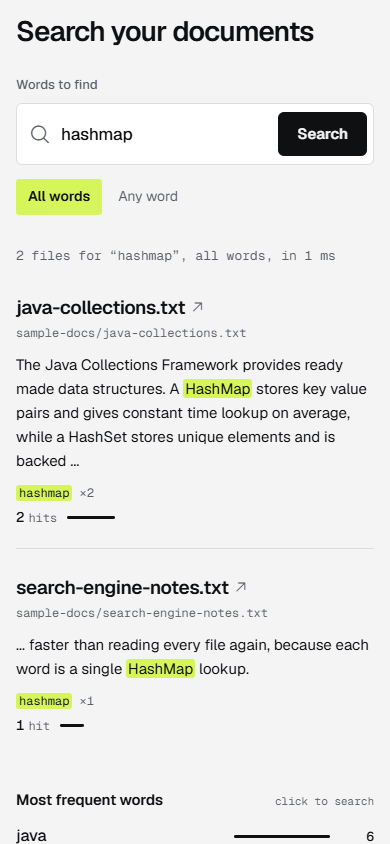
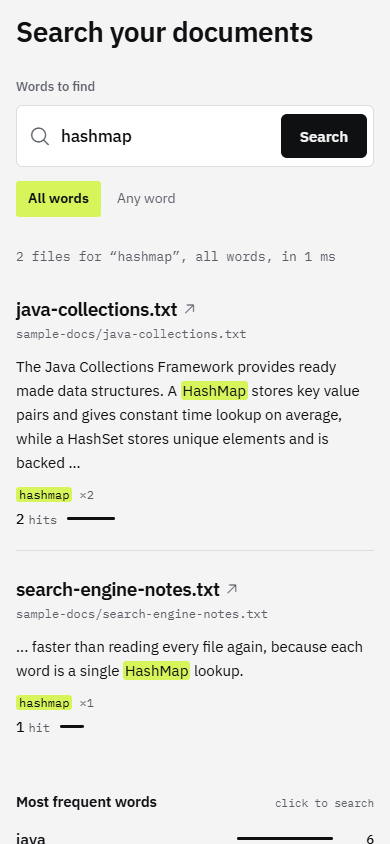
feat(frontend): light theme only, IBM Plex fonts and plainer landing text
Changes from reviewing the site before it goes on Vercel:

- The dark theme is gone, so the site looks the same on every device.
- IBM Plex Sans and IBM Plex Mono replace Geist, and the large headings
  get looser letter spacing.
- The landing page wording is plainer and more specific: a factual
  headline, a concrete description of what the engine does, the
  feature strip without generic icons, and course topic cards that say
  what the code actually does.
- The README screenshots are retaken in the light theme, and the
  READMEs name the new fonts.

diff --git a/frontend/index.html b/frontend/index.html
@@ -3,7 +3,7 @@
 <head>
   <meta charset="utf-8">
   <meta name="viewport" content="width=device-width, initial-scale=1">
-  <meta name="color-scheme" content="light dark">
+  <meta name="color-scheme" content="light">
   <title>DocIndex: search a folder of text files</title>
   <meta name="description" content="A local document indexing and search engine. Index a folder of text files once, then rank every match by keyword frequency. CSC2104 Object Oriented Programming mini project.">
   <link rel="icon" href="favicon.svg" type="image/svg+xml">
@@ -11,7 +11,7 @@
 
   <link rel="preconnect" href="https://fonts.googleapis.com">
   <link rel="preconnect" href="https://fonts.gstatic.com" crossorigin>
-  <link href="https://fonts.googleapis.com/css2?family=Geist:wght@400;500;600;700&family=Geist+Mono:wght@400;500&display=swap" rel="stylesheet">
+  <link href="https://fonts.googleapis.com/css2?family=IBM+Plex+Mono:wght@400;500&family=IBM+Plex+Sans:wght@400;500;600;700&display=swap" rel="stylesheet">
   <link rel="stylesheet" href="https://unpkg.com/@phosphor-icons/web@2.1.1/src/regular/style.css">
   <link rel="stylesheet" href="css/base.css">
   <link rel="stylesheet" href="css/landing.css">
@@ -33,14 +33,14 @@
   <main>
     <section class="hero">
       <div class="wrap">
-        <h1 class="hero__title rise">Find the right file by the <span class="hl">words</span> inside it.</h1>
+        <h1 class="hero__title rise">A search engine for a folder of <span class="hl">text files</span>.</h1>
 
         <div class="hero__grid">
           <div class="hero__copy">
-            <p class="hero__sub rise" style="--i: 1">Point it at a folder of text files. It builds an index once, then ranks every match by keyword frequency.</p>
+            <p class="hero__sub rise" style="--i: 1">It reads each .txt file once, builds an index of every word, and ranks the files that contain your words by how many times those words appear.</p>
             <div class="hero__cta rise" style="--i: 2">
-              <a class="btn btn--solid" href="app.html">Open app <i class="ph ph-arrow-right" aria-hidden="true"></i></a>
-              <a class="btn btn--line" href="#how">See how it works</a>
+              <a class="btn btn--solid" href="app.html">Open the app <i class="ph ph-arrow-right" aria-hidden="true"></i></a>
+              <a class="btn btn--line" href="#how">How it works</a>
             </div>
           </div>
 
@@ -64,24 +64,20 @@
       <div class="wrap">
         <ul class="features__list">
           <li class="feature reveal">
-            <i class="ph ph-folder-open" aria-hidden="true"></i>
             <h2>File indexing</h2>
-            <p>Reads every .txt file in a folder and its sub folders, once.</p>
+            <p>Reads every .txt file in a folder, sub folders included.</p>
           </li>
           <li class="feature reveal" style="--i: 1">
-            <i class="ph ph-hash" aria-hidden="true"></i>
             <h2>Keyword frequency</h2>
-            <p>Counts each word in each file, and lists the most frequent ones.</p>
+            <p>Counts each word in each file and lists the most frequent words.</p>
           </li>
           <li class="feature reveal" style="--i: 2">
-            <i class="ph ph-ranking" aria-hidden="true"></i>
             <h2>Ranked results</h2>
-            <p>Sorts matching files by how often your words appear in them.</p>
+            <p>Sorts the matching files by how often your words appear in them.</p>
           </li>
           <li class="feature reveal" style="--i: 3">
-            <i class="ph ph-clock-counter-clockwise" aria-hidden="true"></i>
             <h2>Search history</h2>
-            <p>Keeps your last ten searches, one click from running again.</p>
+            <p>Keeps your last ten searches so you can run one again.</p>
           </li>
         </ul>
       </div>
@@ -90,8 +86,8 @@
     <section class="section" id="how">
       <div class="wrap">
         <div class="section__head reveal">
-          <h2 class="h2">From a folder to a ranked list</h2>
-          <p class="lede">Four steps, each one built on a plain Java collection. The samples follow one sentence through all of them.</p>
+          <h2 class="h2">How it works</h2>
+          <p class="lede">Indexing happens once. After that, each search is a few lookups in the index. The examples use one of the sample files.</p>
         </div>
 
         <ol class="flow">
@@ -106,7 +102,7 @@
 
           <li class="flow__row reveal">
             <h3 class="flow__verb">Split</h3>
-            <p class="flow__text">Lowercases the text, breaks it into words and drops filler like "the" and "is".</p>
+            <p class="flow__text">Lowercases the text, breaks it into words and drops common words such as "the" and "is".</p>
             <div class="sample">
               <p class="tokens">
                 <span class="tok stop" style="--i: 0">a</span>
@@ -157,8 +153,8 @@
     <section class="section section--tight">
       <div class="wrap">
         <div class="section__head reveal">
-          <h2 class="h2">The Java behind it</h2>
-          <p class="lede">Each concept from the brief has one job in the engine.</p>
+          <h2 class="h2">Where the course topics are used</h2>
+          <p class="lede">The Java classes and collections from the syllabus, and what each one does in this project.</p>
         </div>
 
         <div class="bento">
@@ -170,12 +166,12 @@
 
           <article class="cell cell--b reveal" style="--i: 1">
             <h3>HashSet</h3>
-            <p>Holds the stop words, and gives match-all and match-any through intersection and union.</p>
+            <p>Holds the stop words. All words is a set intersection and any word is a union, done by two subclasses of the abstract Matcher class.</p>
           </article>
 
           <article class="cell cell--c reveal">
             <h3>PriorityQueue</h3>
-            <p>Keeps the best-scoring file on top. Each result implements Comparable, so it knows its own order.</p>
+            <p>Returns the results best first. SearchResult implements Comparable: higher score first, then file name.</p>
           </article>
 
           <article class="cell cell--d reveal" style="--i: 1">
@@ -186,9 +182,9 @@
           <article class="cell cell--e reveal">
             <div>
               <h3>LinkedList</h3>
-              <p>Keeps the last ten searches, newest first. Inheritance shows up too: two Matcher subclasses decide between all and any.</p>
+              <p>Keeps the last ten searches, newest first. When it is full, the oldest search is removed from the end.</p>
             </div>
-            <a class="btn btn--line" href="app.html">Open app <i class="ph ph-arrow-right" aria-hidden="true"></i></a>
+            <a class="btn btn--line" href="app.html">Open the app <i class="ph ph-arrow-right" aria-hidden="true"></i></a>
           </article>
         </div>
       </div>

diff --git a/frontend/css/base.css b/frontend/css/base.css
@@ -5,13 +5,14 @@
    - One accent: highlighter lime (--hl). It only ever fills a background
      behind dark text, the same way a highlighter pen works.
    - One radius scale: 6px for controls and panels, 3px for small inline bits.
+   - Light theme only.
    - Motion only animates transform and opacity, and is switched off under
      prefers-reduced-motion.
    ========================================================================== */
 
 /* Tokens ------------------------------------------------------------------ */
 :root {
-  color-scheme: light dark;
+  color-scheme: light;
 
   --bg: #f4f4f5;
   --surface: #ffffff;
@@ -28,26 +29,10 @@
 
   --r: 6px;
   --r-sm: 3px;
-  --font: "Geist", ui-sans-serif, system-ui, -apple-system, "Segoe UI", Roboto, "Helvetica Neue", Arial, sans-serif;
-  --mono: "Geist Mono", ui-monospace, "Cascadia Code", "SFMono-Regular", Consolas, monospace;
+  --font: "IBM Plex Sans", ui-sans-serif, system-ui, -apple-system, "Segoe UI", Roboto, Arial, sans-serif;
+  --mono: "IBM Plex Mono", ui-monospace, "Cascadia Code", "SFMono-Regular", Consolas, monospace;
   --ease: cubic-bezier(0.16, 1, 0.3, 1);
   --shadow: 0 1px 2px rgb(15 16 18 / 0.05), 0 18px 40px -18px rgb(15 16 18 / 0.22);
-}
-
-/* Dark theme follows the system setting. */
-@media (prefers-color-scheme: dark) {
-  :root {
-    --bg: #0d0e10;
-    --surface: #15161a;
-    --surface-2: #1c1d22;
-    --line: #26282e;
-    --text: #ededeb;
-    --muted: #9a9ea7;
-    --ink: #ededeb;
-    --on-ink: #0d0e10;
-    --danger: #ff8f85;
-    --shadow: 0 1px 2px rgb(0 0 0 / 0.45), 0 20px 44px -20px rgb(0 0 0 / 0.8);
-  }
 }
 
 /* Reset ------------------------------------------------------------------- */
@@ -114,8 +99,8 @@ kbd {
   display: inline-flex;
   align-items: center;
   gap: 10px;
-  font-weight: 650;
-  letter-spacing: -0.02em;
+  font-weight: 600;
+  letter-spacing: -0.01em;
   text-decoration: none;
 }
 

diff --git a/frontend/css/landing.css b/frontend/css/landing.css
@@ -9,8 +9,8 @@
   max-width: 17ch;
   font-size: clamp(2.5rem, 6.2vw, 4.75rem);
   font-weight: 600;
-  line-height: 1.03;
-  letter-spacing: -0.04em;
+  line-height: 1.08;
+  letter-spacing: -0.02em;
   text-wrap: balance;
 }
 
@@ -157,8 +157,7 @@
 
 .feature { padding: 28px 24px 30px 0; }
 .feature + .feature { padding-left: 24px; border-left: 1px solid var(--line); }
-.feature .ph { font-size: 1.375rem; }
-.feature h2 { margin-top: 14px; font-size: 1rem; font-weight: 600; letter-spacing: -0.015em; }
+.feature h2 { font-size: 1rem; font-weight: 600; }
 .feature p { margin-top: 6px; max-width: 30ch; font-size: 0.9375rem; color: var(--muted); }
 
 /* Sections ---------------------------------------------------------------- */
@@ -170,8 +169,8 @@
 .h2 {
   font-size: clamp(1.75rem, 3.4vw, 2.5rem);
   font-weight: 600;
-  line-height: 1.1;
-  letter-spacing: -0.03em;
+  line-height: 1.15;
+  letter-spacing: -0.015em;
 }
 
 .lede { margin-top: 14px; max-width: 46ch; color: var(--muted); }
@@ -190,8 +189,8 @@
 .flow__verb {
   font-size: clamp(1.75rem, 3vw, 2.25rem);
   font-weight: 600;
-  line-height: 1;
-  letter-spacing: -0.035em;
+  line-height: 1.1;
+  letter-spacing: -0.015em;
 }
 
 .flow__text { max-width: 36ch; color: var(--muted); }

diff --git a/frontend/app.html b/frontend/app.html
@@ -3,7 +3,7 @@
 <head>
   <meta charset="utf-8">
   <meta name="viewport" content="width=device-width, initial-scale=1">
-  <meta name="color-scheme" content="light dark">
+  <meta name="color-scheme" content="light">
   <title>Search: DocIndex</title>
   <meta name="description" content="Index a folder of text files and search across them, ranked by keyword frequency. Your files are read inside your browser and never uploaded.">
   <link rel="icon" href="favicon.svg" type="image/svg+xml">
@@ -11,7 +11,7 @@
 
   <link rel="preconnect" href="https://fonts.googleapis.com">
   <link rel="preconnect" href="https://fonts.gstatic.com" crossorigin>
-  <link href="https://fonts.googleapis.com/css2?family=Geist:wght@400;500;600;700&family=Geist+Mono:wght@400;500&display=swap" rel="stylesheet">
+  <link href="https://fonts.googleapis.com/css2?family=IBM+Plex+Mono:wght@400;500&family=IBM+Plex+Sans:wght@400;500;600;700&display=swap" rel="stylesheet">
   <link rel="stylesheet" href="https://unpkg.com/@phosphor-icons/web@2.1.1/src/regular/style.css">
   <link rel="stylesheet" href="css/base.css">
   <link rel="stylesheet" href="css/app.css">

diff --git a/frontend/css/app.css b/frontend/css/app.css
@@ -17,8 +17,8 @@
   margin-bottom: 28px;
   font-size: clamp(1.75rem, 3.4vw, 2.5rem);
   font-weight: 600;
-  line-height: 1.1;
-  letter-spacing: -0.035em;
+  line-height: 1.15;
+  letter-spacing: -0.015em;
 }
 
 .field__label {
@@ -287,7 +287,7 @@
 }
 
 .stats dt { font-size: 0.75rem; color: var(--muted); }
-.stats dd { margin: 4px 0 0; font-size: 2rem; font-weight: 600; line-height: 1; letter-spacing: -0.04em; font-variant-numeric: tabular-nums; }
+.stats dd { margin: 4px 0 0; font-size: 2rem; font-weight: 600; line-height: 1; letter-spacing: -0.02em; font-variant-numeric: tabular-nums; }
 
 .panel__note { margin-top: 16px; font-size: 0.8125rem; line-height: 1.5; color: var(--muted); overflow-wrap: anywhere; }
 .panel__note--quiet { margin-top: 10px; padding-top: 12px; border-top: 1px solid var(--line); font-size: 0.75rem; }

diff --git a/frontend/README.md b/frontend/README.md
@@ -177,16 +177,16 @@ Vercel hosts static files, so the deployed site runs in browser mode. It cannot 
 3. Set **Framework Preset** to `Other` and **Root Directory** to `frontend`.
 4. Leave **Build Command** and **Output Directory** empty, then deploy.
 
-No `vercel.json` is needed. The landing page opens first, and **Open app** leads into the search app. On the hosted site the app makes no request to `/api`, because the address is not `localhost`.
+No `vercel.json` is needed. The landing page opens first, and **Open the app** leads into the search app. On the hosted site the app makes no request to `/api`, because the address is not `localhost`.
 
 ## Design notes
 
 - One accent, a highlighter lime, used only as a background behind dark text.
-- Light and dark themes follow the system setting.
+- Light theme only.
 - Motion only animates `transform` and `opacity`, and switches off under `prefers-reduced-motion`.
 - Works down to phone width; on a phone the Index panel comes first.
 
 ## Credits
 
-- Geist and Geist Mono (SIL Open Font License), loaded from Google Fonts.
+- IBM Plex Sans and IBM Plex Mono (SIL Open Font License), loaded from Google Fonts.
 - Phosphor Icons (MIT), loaded from unpkg.

diff --git a/README.md b/README.md
@@ -33,7 +33,7 @@ Searches can ask for files that contain **all** the words or **any** of them.
 
 ## Screenshots
 
-| Ranked results and keyword frequency | Document view (dark theme) |
+| Ranked results and keyword frequency | Document view |
 |---|---|
 | ![Search results for java thread, with the index panel and the most frequent words](docs/screenshots/app-results.png) | ![A document opened from the results, with every match highlighted](docs/screenshots/app-viewer.png) |
 
